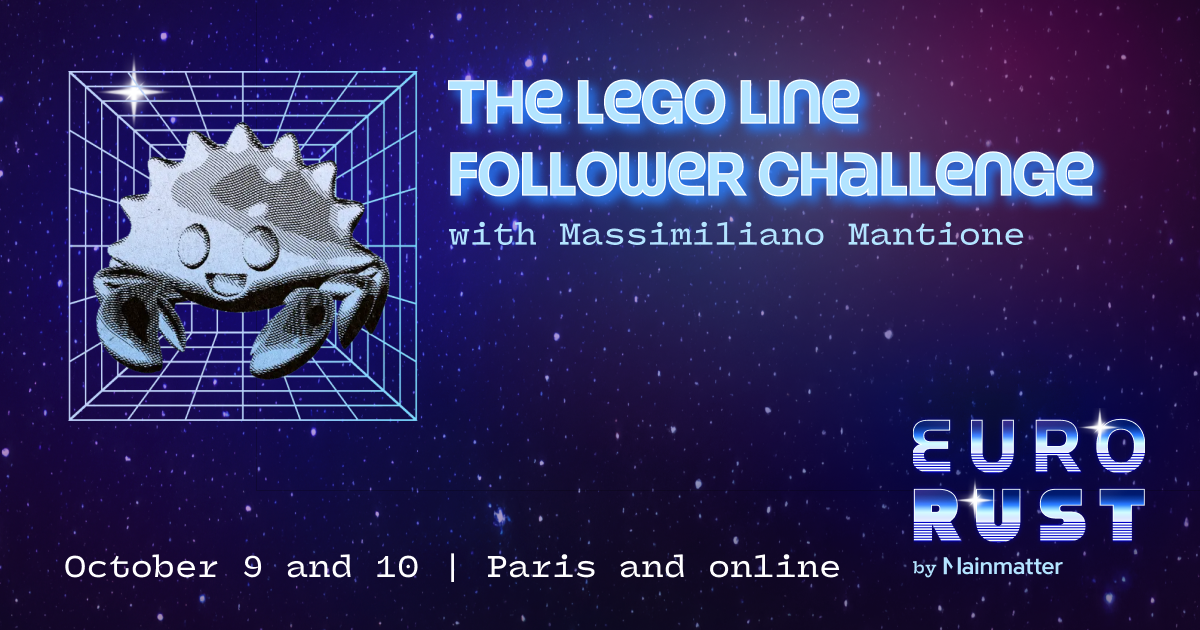
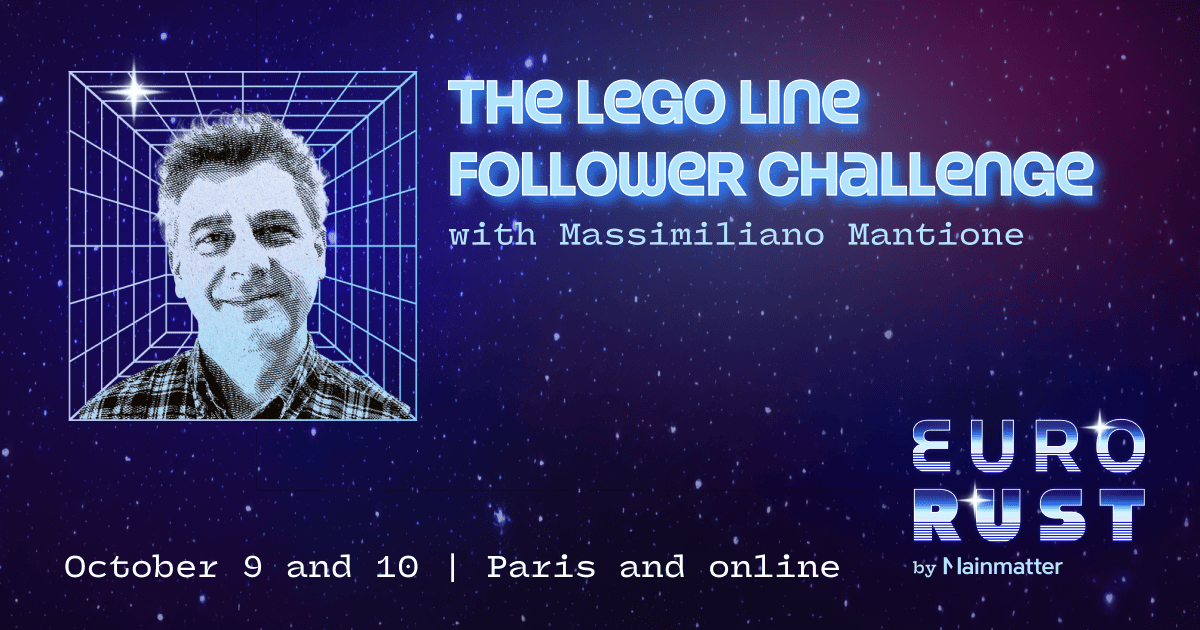
add(massimiliano's photo)

diff --git a/content/speakers/massimiliano-mantione.md b/content/speakers/massimiliano-mantione.md
@@ -4,7 +4,7 @@ title = "Speaker: Massimiliano Mantione"
 [extra]
   name = "Massimiliano Mantione"
   url = ""
-  image = ""
+  image = "/images/talks/massimiliano-mantione.webp"
   twitter = ""
   mastodon = ""
   bio = "<p>Line Follower robots are fun.</p><p>What they do is very simple (they follow a line drawn on the floor), but doing it fast to win a competition is tricky. In this case, to add spice to the challenge, the robot must be built entirely out of Lego parts, including all the electronics!</p><p>In this talk we’ll see what kind of algorithms can be used to control the robot, and how detailed telemetry is essential to understand its behavior.</p><p>We’ll also see how using embedded Rust and implementing our own async runtime can make the software easier to understand and at the same time more performant.</p>"
